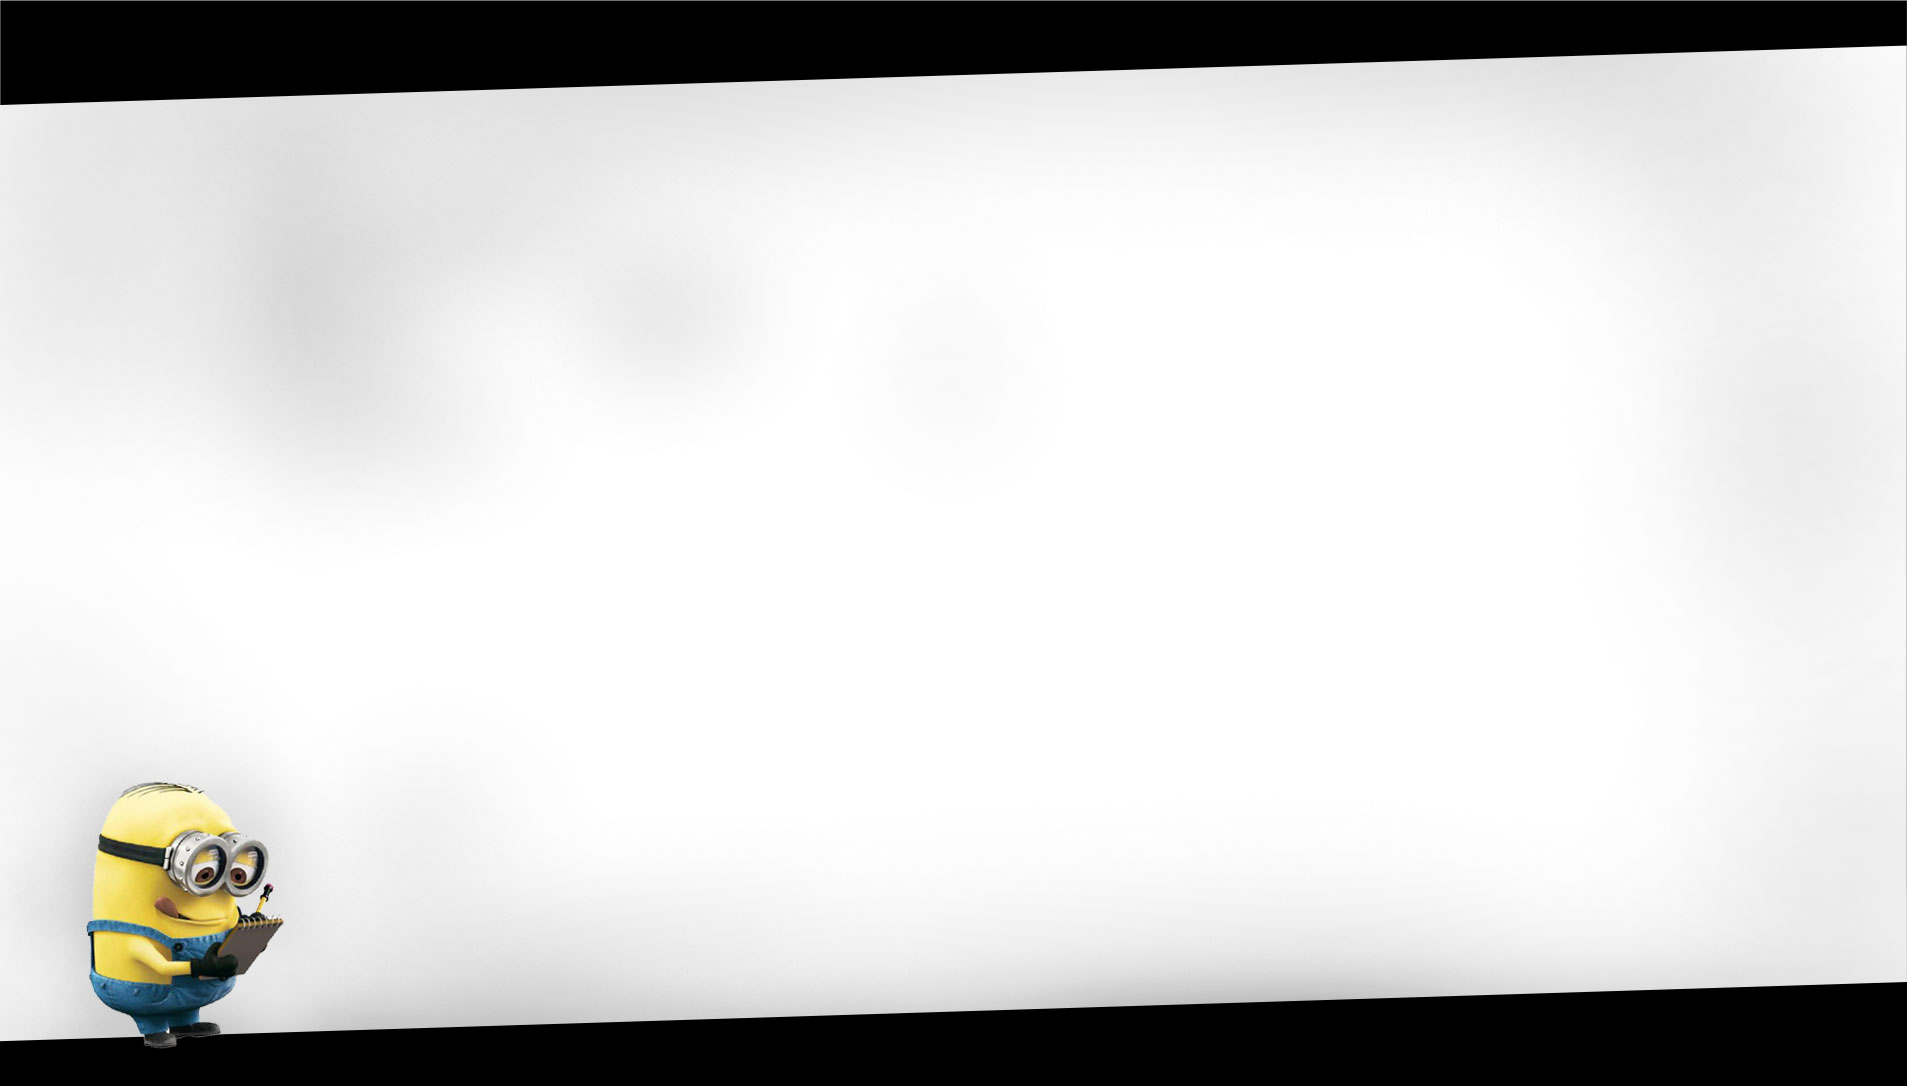
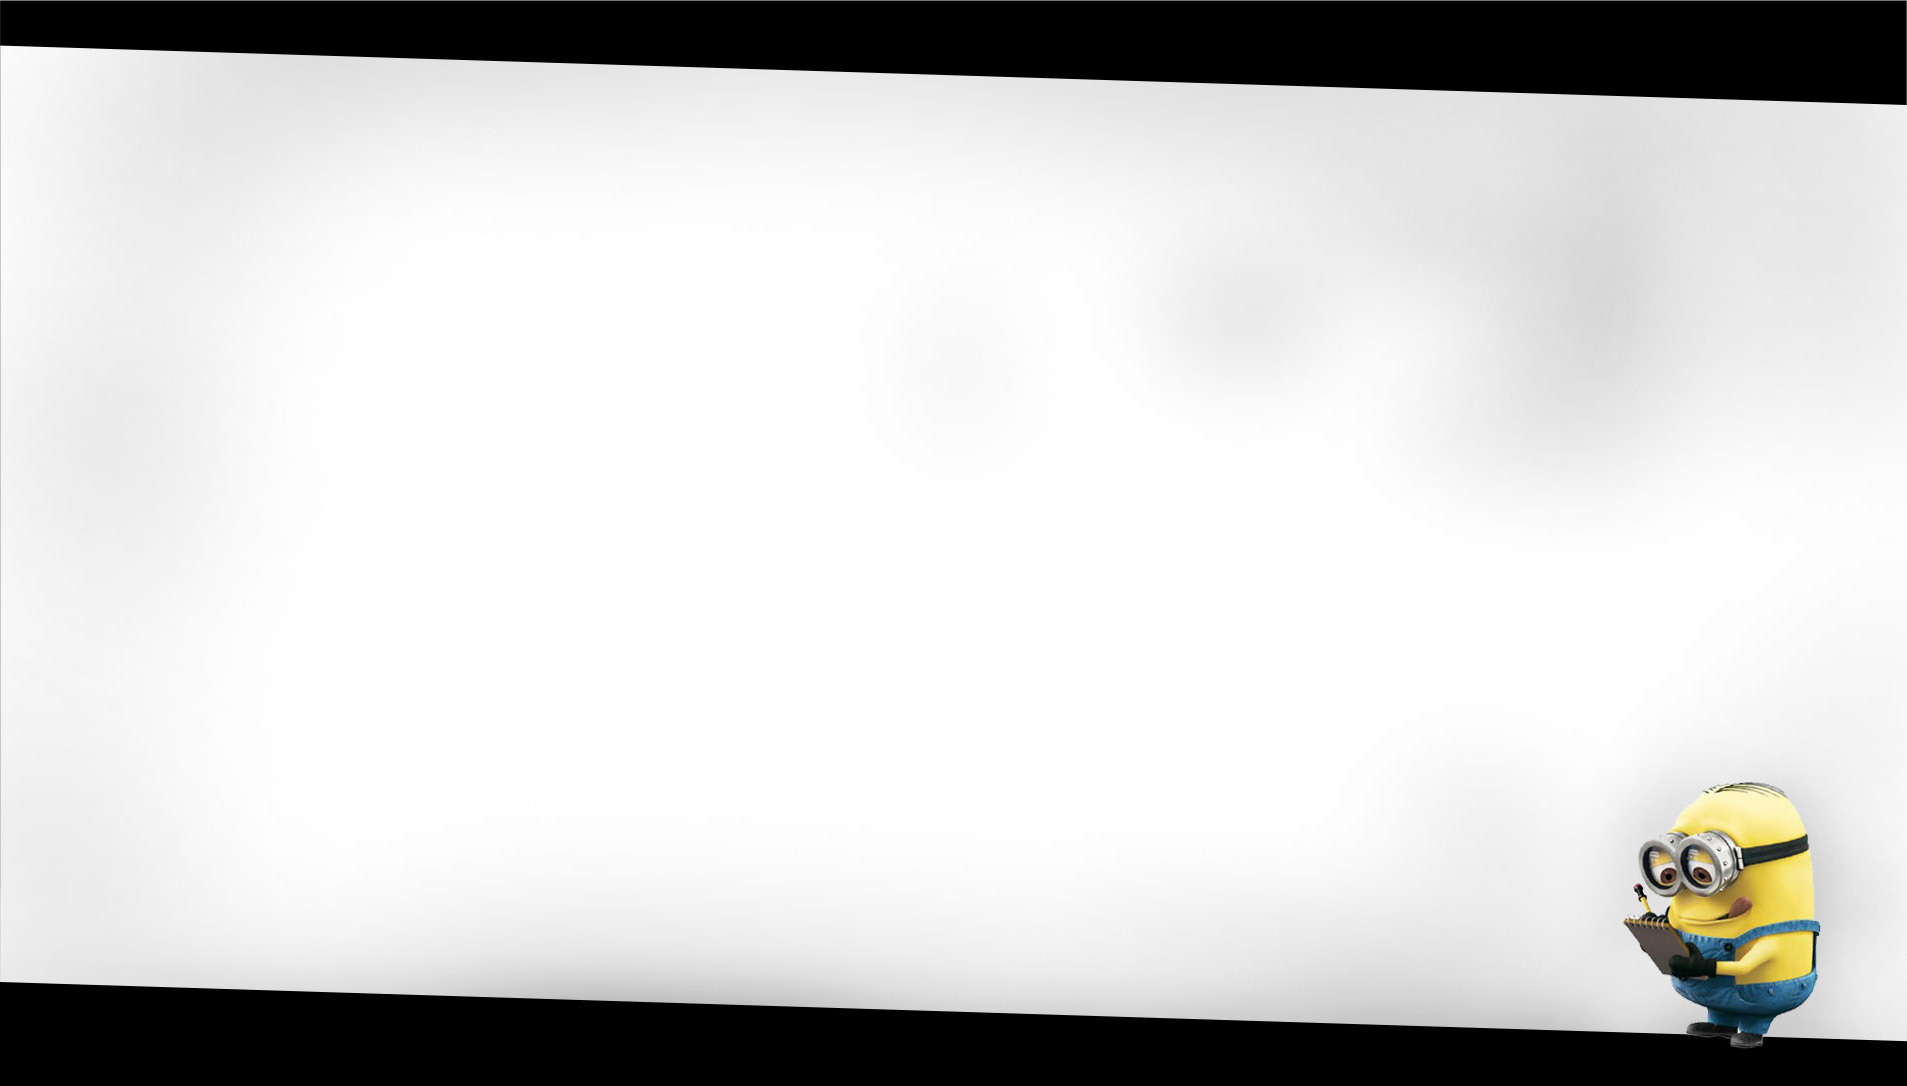
404 adjusted according to mobile and css fixes

diff --git a/skin/frontend/creo_mobile/default/style.css b/skin/frontend/creo_mobile/default/style.css
@@ -243,6 +243,7 @@ body.canvas-slid #disable_view{position: fixed;z-index: 9998;background-color: r
 .modal-content .close:hover { color: #000; opacity: 1; }
 .modal-holder { transform: skewY(5deg); -moz-transform: skewY(5deg); -ms-transform: skewY(5deg); -webkit-transform: skewY(5deg); backface-visibility: hidden; text-align: center; color: #888; font: 16px/26px "Roboto Condensed", Helvetica, Arial, sans-serif; }
 .modal-holder h2 { margin: 0 0 10px; text-transform: uppercase; color: #222; font: 40px/42px "Roboto Condensed", Helvetica, Arial, sans-serif; }
+.modal-holder .btn-holder a,.modal-holder .btn-holder .btn-proceed-checkout{display:block;}
 .modal-holder p { margin: 0 0 10px; }
 .subscribe-form { display: block; margin: 0; padding: 0; background: none; border: none; }
 input[type="text"], input[type="password"], input.email { display: block; background: none; border: 1px solid #ddd; width: 100%; height: 28px; line-height: 20px; margin: 0 0 10px; padding: 4px 10px; text-align: left; }
@@ -345,7 +346,7 @@ margin: 0; text-transform: capitalize; color: #222; font: 13px/18px "Roboto Cond
 .products-grid .text-area h3 a { color: #222; }
 .products-grid .text-area .price { display: block; margin: 0 0 0 2%; color: #f16167; float: right; text-align: right; width: 33%; font: 13px/18px "Roboto Condensed", Helvetica, Arial, sans-serif; }
 .products-grid .btn-holder { overflow: hidden; text-align: center; clear: both; }
-.products-grid .btn-holder a { float: left; width: 70%; border: 4px solid #f16167; background: #f16167; text-transform: uppercase; color: #000; position: relative; font: bold 14px/24px Arial, Helvetica, sans-serif; }
+.products-grid .btn-holder a { float: left; width: 70%; border: 4px solid #f16167; background: #f16167; text-transform: uppercase; color: #000; position: relative; font: bold 12px/24px Arial, Helvetica, sans-serif; }
 .products-grid .btn-holder a:before { position: absolute; top: -4px; right: -24px; width: 0; height: 0; border-style: solid; border-width: 44px 20px 0 0; border-color: #f16167 transparent transparent; content: ''; }
 .products-grid .btn-holder a:first-child:before { display: none; }
 .products-grid .btn-holder a:hover:before { border-color: #000 transparent transparent; }

diff --git a/skin/frontend/creo_mobile/default/style404.css b/skin/frontend/creo_mobile/default/style404.css
@@ -10,7 +10,11 @@ body {
 	margin: 0;
 	color: #333;
 	font: 12px/14px 'Open Sans', Arial, Helvetica, sans-serif;
-	background: #dddbdc url("images/bg-page.jpg") no-repeat 0 0 / 100% 100%;
+	background-image:url("images/bg-page-mobile.jpg");
+	background-repeat:no-repeat;
+	background-size:auto 100%;
+	background-position:right center;
+	background-color:#dddbdc;
 	overflow-y: scroll;
 	min-width: 320px;
 	height: 100%;
@@ -39,11 +43,11 @@ p { margin: 0 0 1.2em; }
 .w2{
 	display: table-cell;
 	vertical-align: middle;
-	padding: 88px 0 0;
+	padding:20px 0 0;
 }
 .logo-holder{
 	position: absolute;
-	top: 15%;
+	top:8%;
 	left: 0;
 	right: 0;
 }
@@ -61,13 +65,9 @@ p { margin: 0 0 1.2em; }
 	max-width: 810px;
 	margin: 0 auto;
 	text-align: left;
-	padding: 20px 0 108px;
+	padding:15px;
 	color: #222;
 	font: 24px/37px 'Open Sans', Arial, Helvetica, sans-serif;
-	transform: rotate(-4deg);
-	-ms-transform: rotate(-4deg);
-	-moz-transform: rotate(-4deg);
-	-webkit-transform: rotate(-4deg);
 }
 .text-area h1{
 	font:bold 64px/59px 'Open Sans', Arial, Helvetica, sans-serif;
@@ -107,12 +107,12 @@ p { margin: 0 0 1.2em; }
 }
 .std{height: 100%;}
 @media only screen and (max-width: 991px) {
-	.text-area{
-		padding: 20px 140px 108px;
-		font:16px/24px "Open Sans",Arial,Helvetica,sans-serif;
-	}
+	.text-area{font:16px/24px "Open Sans",Arial,Helvetica,sans-serif;}
 	.text-area h1{font: bold 50px/50px "Open Sans",Arial,Helvetica,sans-serif;}
 	.text-area p{padding: 12px 0;}
 	.link-holder{font: bold 14px/18px "Open Sans",Arial,Helvetica,sans-serif;}
 	.link-holder li {margin: 0 0 5px;}
+}
+@media (orientation:landscape) {
+body {background-image:url("images/bg-page.jpg");background-size:100% auto;}
 }
